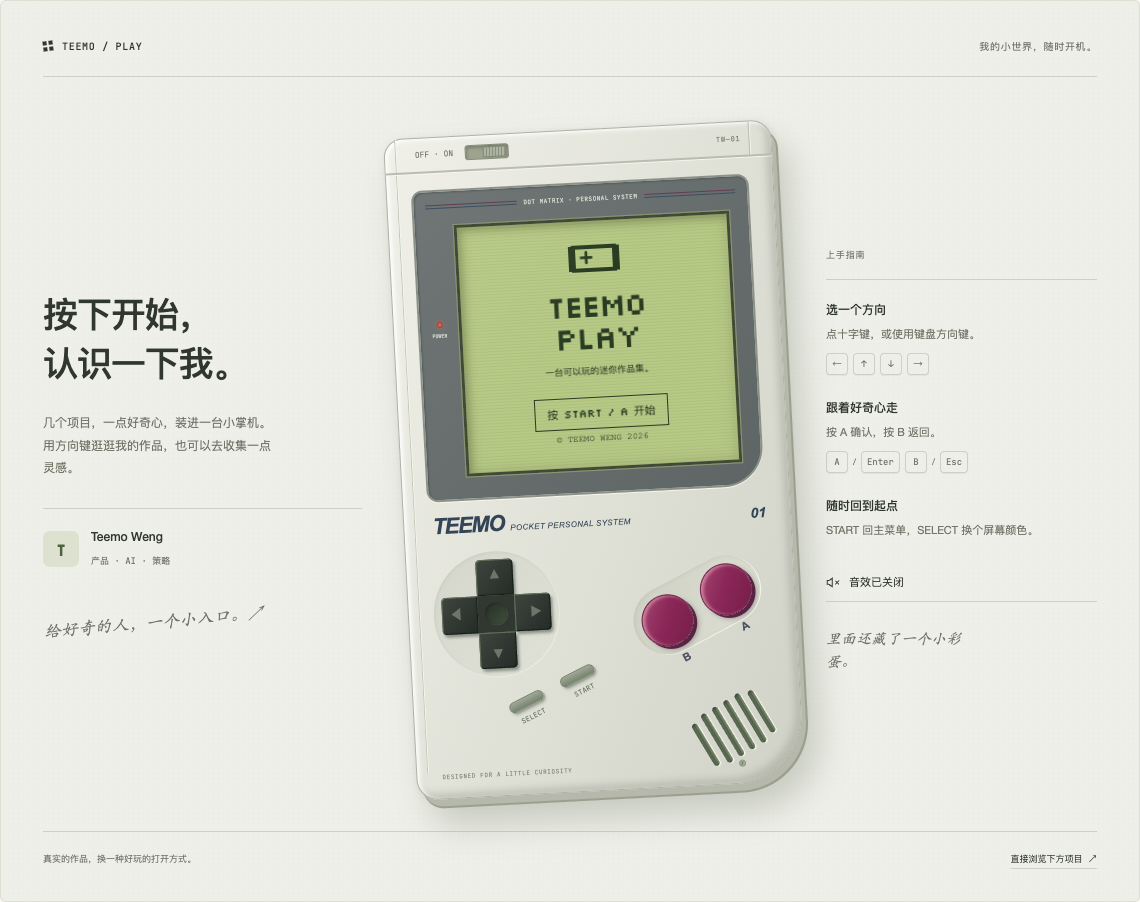
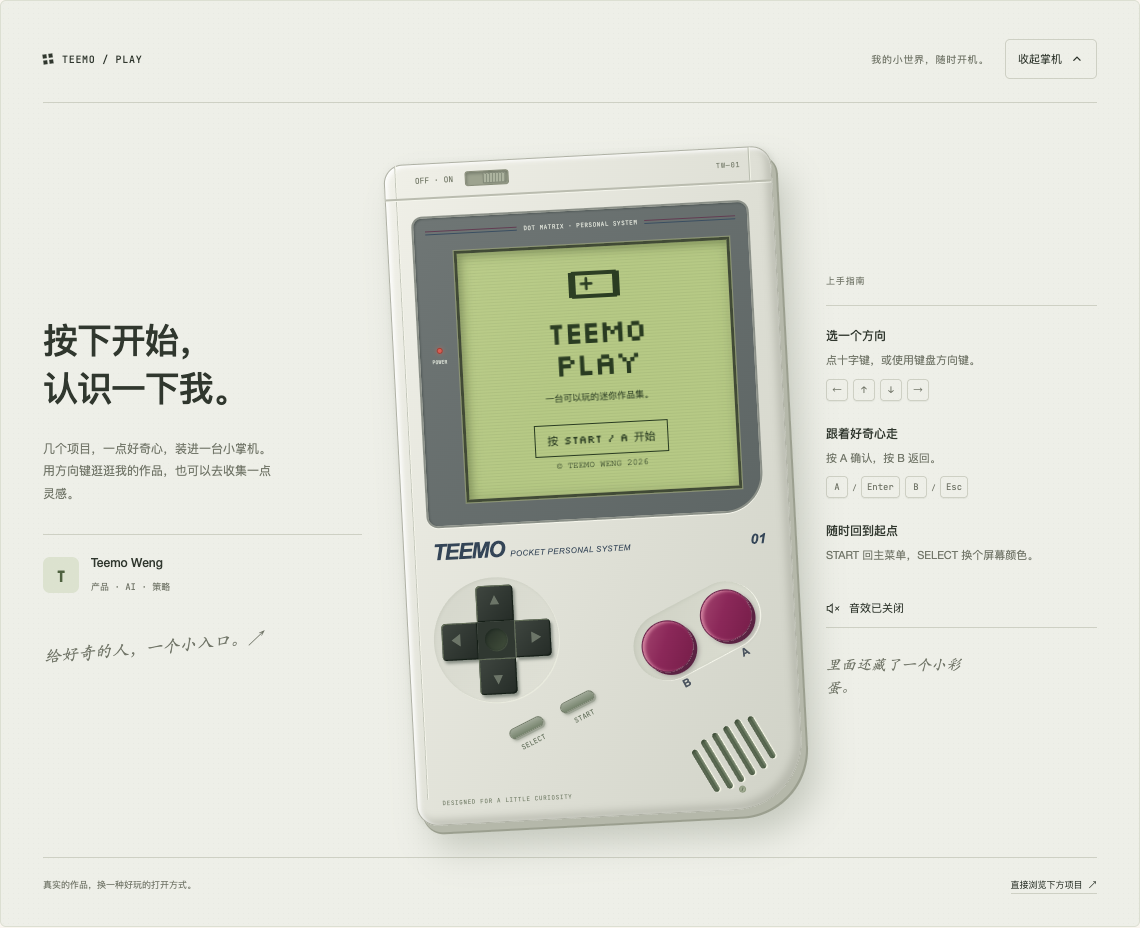
feat: move handheld below intro and add collapsible display

diff --git a/index.html b/index.html
@@ -138,11 +138,11 @@ canvas#particles {
 }
 .hero-content {
   position: relative; z-index: 1;
-  display: grid; grid-template-columns: 1fr 340px;
-  gap: 80px; align-items: center;
+  display: grid; grid-template-columns: minmax(0, 1fr) 300px;
+  gap: 48px; align-items: center;
   max-width: 1100px; width: 100%; padding: 0 40px;
 }
-.hero-text { }
+.hero-text { min-width: 0; }
 .hero-tag {
   display: inline-block; font-family: 'JetBrains Mono', monospace;
   font-size: 12px; color: var(--accent); letter-spacing: 0.12em;
@@ -171,7 +171,21 @@ canvas#particles {
   font-size: 15px; line-height: 1.75; color: var(--fg2);
   max-width: 520px; margin-bottom: 36px;
 }
-.hero-actions { display: flex; gap: 12px; flex-wrap: wrap; }
+.hero-actions { display: flex; gap: 8px; flex-wrap: nowrap; }
+.hero-actions > a, .hero-actions > button { padding-inline: 15px; font-size: 13px; white-space: nowrap; justify-content: center; }
+.hero-action-short { display: none; }
+@media (max-width: 960px) {
+  .hero-content { grid-template-columns: 1fr; gap: 40px; padding-inline: 20px; text-align: center; }
+  .hero-avatar { order: -1; }
+  .hero-actions { justify-content: center; }
+  .hero-desc { margin-inline: auto; }
+}
+@media (max-width: 480px) {
+  .hero-actions { gap: 6px; }
+  .hero-actions > a, .hero-actions > button { flex: 1; min-width: 0; min-height: 44px; padding: 10px 6px; font-size: 11px; }
+  .hero-action-full { display: none; }
+  .hero-action-short { display: inline; }
+}
 .btn-primary {
   padding: 12px 28px; background: var(--accent); color: #000;
   border: none; border-radius: 8px; font-weight: 600;
@@ -1022,6 +1036,14 @@ footer span { color: var(--accent); }
 @media(max-width:680px){[data-lang="zh"] .handheld-intro h2 span{display:block}[data-lang="zh"] .handheld-intro h2 span+span::before{content:none}.hh-menu-item{font-size:12px!important;min-height:27px}.handheld-screen .hh-menu{gap:1px}}
 @media(max-width:380px){.handheld-screen{height:250px}.hh-links{flex-wrap:nowrap;gap:4px}.hh-links .hh-link{font-size:9px!important;white-space:nowrap;margin-right:0;padding-inline:4px}}
 
+.handheld-stage-header > [data-i18n="game_edition"]{margin-left:auto}
+.handheld-toggle{display:inline-flex;align-items:center;justify-content:center;gap:8px;flex-shrink:0;min-height:40px;padding:8px 12px;border:1px solid var(--hh-rule);border-radius:5px;background:transparent;color:var(--hh-ink);font:11px 'JetBrains Mono','PingFang SC',monospace;cursor:pointer}
+.handheld-toggle[hidden],#handheld-content[hidden]{display:none}
+.handheld-toggle:hover{background:#8e997a18}
+.handheld-toggle:focus-visible{outline:2px solid var(--hh-ink);outline-offset:3px}
+.handheld-toggle[aria-expanded="false"] svg{transform:rotate(180deg)}
+.handheld-stage[data-collapsed="true"] .handheld-stage-header{padding-bottom:0;border-bottom:0}
+@media(max-width:680px){.handheld-stage-header > [data-i18n="game_edition"]{display:none}.handheld-toggle{font-size:10px;padding-inline:9px}}
 </style>
 </head>
 
@@ -1061,11 +1083,9 @@ footer span { color: var(--accent); }
         MSc student at Imperial College London, currently an AI Product Intern at Alibaba (space-leasing product line). Experienced in strategy consulting (BCG), internet product (Beike, POIZON), and startup building. Seeking product & strategy roles in China.
       </p>
       <div class="hero-actions">
-        <a class="btn-primary" href="#" onclick="downloadResume()" data-i18n="btn_resume">
-          ↓ Download Resume
-        </a>
-        <a class="btn-outline" href="#contact" data-i18n="btn_contact">Get in Touch</a>
-        <a class="btn-outline" href="#playground" data-i18n="game_hero_link">▶ Play a little</a>
+        <a class="btn-primary" href="#" onclick="downloadResume()" data-i18n-aria-label="btn_resume"><span class="hero-action-full" data-i18n="btn_resume">↓ Download Resume</span><span class="hero-action-short" data-i18n="btn_resume_short">↓ Resume</span></a>
+        <a class="btn-outline" href="#contact" data-i18n-aria-label="btn_contact"><span class="hero-action-full" data-i18n="btn_contact">Get in Touch</span><span class="hero-action-short" data-i18n="btn_contact_short">Contact</span></a>
+        <a class="btn-outline" href="#playground" data-i18n-aria-label="game_hero_link"><span class="hero-action-full" data-i18n="game_hero_link">▶ Play a little</span><span class="hero-action-short" data-i18n="game_hero_short">▶ Play</span></a>
         <button type="button" class="btn-outline" onclick="openGithubModal()" data-i18n="btn_github">⌥ GitHub</button>
       </div>
     </div>
@@ -1079,6 +1099,57 @@ footer span { color: var(--accent); }
   <div class="hero-scroll">
     <div class="scroll-line"></div>
     <span data-i18n="scroll_hint">scroll</span>
+  </div>
+</section>
+
+<!-- INTERACTIVE HANDHELD — isolated addition to the classic homepage -->
+<section id="playground">
+  <div class="handheld-stage">
+    <div class="handheld-stage-header">
+      <strong><span class="handheld-mark" aria-hidden="true"><i></i><i></i><i></i><i></i></span> TEEMO / PLAY</strong>
+      <span data-i18n="game_edition">A little world, ready to play.</span>
+      <button id="handheld-toggle" class="handheld-toggle" type="button" aria-expanded="true" aria-controls="handheld-content" hidden><span data-i18n="game_collapse">Collapse</span><svg viewBox="0 0 16 16" width="14" height="14" fill="none" stroke="currentColor" stroke-width="1.5" aria-hidden="true"><path d="m4 10 4-4 4 4"/></svg></button>
+    </div>
+    <div id="handheld-content">
+    <div class="handheld-layout">
+      <div class="handheld-intro">
+        <h2 data-i18n="game_heading"><span>Press start.</span><span>Meet Teemo.</span></h2>
+        <p data-i18n="game_intro">A few projects, a little curiosity, and a pocket-sized way to get to know me. Go on. Press a button.</p>
+        <div class="handheld-player-tag"><span class="handheld-player-symbol" aria-hidden="true">T</span><div><strong>Teemo Weng</strong><small data-i18n="game_player_role">Product · AI · Strategy</small></div></div>
+        <span class="handheld-pencil-note" data-i18n="game_margin_note">Made for the curious. ↗</span>
+      </div>
+      <div id="handheld-console" class="handheld-console" tabindex="0" role="group" data-powered="true" data-palette="green" data-i18n-aria-label="game_console_label" aria-label="Teemo interactive handheld. Use direction keys and A or B while focused.">
+        <div class="handheld-top-rail"><span>OFF · ON</span><button id="handheld-power" class="handheld-power" type="button" aria-pressed="true" aria-label="Power" data-i18n-aria-label="game_power_label"></button><small>TW—01</small></div>
+        <div class="handheld-bezel">
+          <div class="handheld-bezel-top" aria-hidden="true">DOT MATRIX · PERSONAL SYSTEM</div>
+          <div class="handheld-power-light" aria-hidden="true"><i></i>POWER</div>
+          <div id="handheld-screen" class="handheld-screen"><div id="handheld-display" class="handheld-display">
+            <div class="hh-title-screen"><span class="hh-title-mark" aria-hidden="true"></span><div class="hh-title-logo">TEEMO<span>PLAY</span></div><p data-i18n="game_title_sub">A pocket-sized introduction.</p><button type="button" class="hh-title-start" data-handheld-action="start" data-i18n="game_press_start">PRESS START</button><p>© TEEMO WENG 2026</p></div>
+          </div></div>
+        </div>
+        <div class="handheld-brand" aria-hidden="true"><strong>TEEMO</strong><span>POCKET PERSONAL SYSTEM</span><small>01</small></div>
+        <div class="handheld-controls">
+          <div class="handheld-dpad" aria-label="Direction controls">
+            <button type="button" data-handheld-action="up" data-i18n-aria-label="game_up" aria-label="Up">▲</button><button type="button" data-handheld-action="left" data-i18n-aria-label="game_left" aria-label="Left">◀</button><span class="handheld-dpad-center" aria-hidden="true"></span><button type="button" data-handheld-action="right" data-i18n-aria-label="game_right" aria-label="Right">▶</button><button type="button" data-handheld-action="down" data-i18n-aria-label="game_down" aria-label="Down">▼</button>
+          </div>
+          <div class="handheld-ab"><div class="handheld-ab-key"><button type="button" data-handheld-action="b" data-i18n-aria-label="game_b" aria-label="B — back"></button><span aria-hidden="true">B</span></div><div class="handheld-ab-key"><button type="button" data-handheld-action="a" data-i18n-aria-label="game_a" aria-label="A — select"></button><span aria-hidden="true">A</span></div></div>
+        </div>
+        <div class="handheld-bottom"><div class="handheld-system-controls"><div class="handheld-system-key"><button type="button" data-handheld-action="select" data-i18n-aria-label="game_select" aria-label="Select — switch screen color"></button><span aria-hidden="true">SELECT</span></div><div class="handheld-system-key"><button type="button" data-handheld-action="start" data-i18n-aria-label="game_start" aria-label="Start — main menu"></button><span aria-hidden="true">START</span></div></div><div class="handheld-speaker" aria-hidden="true"><i></i><i></i><i></i><i></i><i></i><i></i></div></div>
+        <div class="handheld-shell-label" aria-hidden="true">DESIGNED FOR A LITTLE CURIOSITY</div><i class="handheld-screw" aria-hidden="true"></i>
+      </div>
+      <aside class="handheld-guide">
+        <div class="handheld-guide-title" data-i18n="game_guide">A QUICK START</div>
+        <div class="handheld-guide-item"><strong data-i18n="game_direction_title">Find your way</strong><p data-i18n="game_direction_desc">Use the D-pad or arrow keys.</p><div class="handheld-guide-keys" aria-hidden="true"><kbd>←</kbd><kbd>↑</kbd><kbd>↓</kbd><kbd>→</kbd></div></div>
+        <div class="handheld-guide-item"><strong data-i18n="game_action_title">Follow your curiosity</strong><p data-i18n="game_action_desc">A to select. B to go back.</p><div class="handheld-guide-keys" aria-hidden="true"><kbd>A</kbd><span>/</span><kbd>Enter</kbd><kbd>B</kbd><span>/</span><kbd>Esc</kbd></div></div>
+        <div class="handheld-guide-item"><strong data-i18n="game_home_title">Make yourself at home</strong><p data-i18n="game_home_desc">START returns home. SELECT changes the screen color.</p></div>
+        <button type="button" id="handheld-sound" class="handheld-sound" aria-pressed="false" aria-label="Enable sound"><svg viewBox="0 0 24 24" fill="none" stroke="currentColor" stroke-width="1.6" aria-hidden="true"><path d="M10 5 5 9H2v6h3l5 4V5Z"/><path class="hh-sound-wave" d="M14 8q4 4 0 8m3-11q7 7 0 14"/><path class="hh-sound-mute" d="m15 9 6 6m0-6-6 6"/></svg><span data-i18n="game_sound_off">Sound off · turn on</span></button>
+        <p class="handheld-guide-note" data-i18n="game_quest_note">Psst… there’s a little side quest inside.</p>
+      </aside>
+    </div>
+    <div class="handheld-stage-footer"><span data-i18n="game_footer">Real projects. A playful way in.</span><a href="#projects" data-i18n="game_skip">Browse the projects below ↗</a></div>
+    </div>
+    <div id="handheld-announcement" class="handheld-sr-only" aria-live="polite" aria-atomic="true"></div>
+    <noscript><p class="handheld-nojs">掌机需要 JavaScript。你仍可在下方浏览完整项目。 / Enable JavaScript to play, or browse all projects below.</p><style>.handheld-nojs{display:block;padding-top:15px;font-size:12px}.project-card,.news-item,.tl-item,.edu-card,.skill-group,.reveal{opacity:1;transform:none}.handheld-console button,.handheld-sound{pointer-events:none}.handheld-nojs a{color:inherit}</style></noscript>
   </div>
 </section>
 
@@ -1194,51 +1265,6 @@ footer span { color: var(--accent); }
       <div class="news-date">2022.03</div>
       <div class="news-text" data-i18n="news_6">🚀 Led 0-to-1 launch of <strong>Hinbor</strong>, a North America campus group-ordering food platform.</div>
     </div>
-  </div>
-</section>
-
-<!-- INTERACTIVE HANDHELD — isolated addition to the classic homepage -->
-<section id="playground">
-  <div class="handheld-stage">
-    <div class="handheld-stage-header"><strong><span class="handheld-mark" aria-hidden="true"><i></i><i></i><i></i><i></i></span> TEEMO / PLAY</strong><span data-i18n="game_edition">A little world, ready to play.</span></div>
-    <div class="handheld-layout">
-      <div class="handheld-intro">
-        <h2 data-i18n="game_heading"><span>Press start.</span><span>Meet Teemo.</span></h2>
-        <p data-i18n="game_intro">A few projects, a little curiosity, and a pocket-sized way to get to know me. Go on. Press a button.</p>
-        <div class="handheld-player-tag"><span class="handheld-player-symbol" aria-hidden="true">T</span><div><strong>Teemo Weng</strong><small data-i18n="game_player_role">Product · AI · Strategy</small></div></div>
-        <span class="handheld-pencil-note" data-i18n="game_margin_note">Made for the curious. ↗</span>
-      </div>
-      <div id="handheld-console" class="handheld-console" tabindex="0" role="group" data-powered="true" data-palette="green" data-i18n-aria-label="game_console_label" aria-label="Teemo interactive handheld. Use direction keys and A or B while focused.">
-        <div class="handheld-top-rail"><span>OFF · ON</span><button id="handheld-power" class="handheld-power" type="button" aria-pressed="true" aria-label="Power" data-i18n-aria-label="game_power_label"></button><small>TW—01</small></div>
-        <div class="handheld-bezel">
-          <div class="handheld-bezel-top" aria-hidden="true">DOT MATRIX · PERSONAL SYSTEM</div>
-          <div class="handheld-power-light" aria-hidden="true"><i></i>POWER</div>
-          <div id="handheld-screen" class="handheld-screen"><div id="handheld-display" class="handheld-display">
-            <div class="hh-title-screen"><span class="hh-title-mark" aria-hidden="true"></span><div class="hh-title-logo">TEEMO<span>PLAY</span></div><p data-i18n="game_title_sub">A pocket-sized introduction.</p><button type="button" class="hh-title-start" data-handheld-action="start" data-i18n="game_press_start">PRESS START</button><p>© TEEMO WENG 2026</p></div>
-          </div></div>
-        </div>
-        <div class="handheld-brand" aria-hidden="true"><strong>TEEMO</strong><span>POCKET PERSONAL SYSTEM</span><small>01</small></div>
-        <div class="handheld-controls">
-          <div class="handheld-dpad" aria-label="Direction controls">
-            <button type="button" data-handheld-action="up" data-i18n-aria-label="game_up" aria-label="Up">▲</button><button type="button" data-handheld-action="left" data-i18n-aria-label="game_left" aria-label="Left">◀</button><span class="handheld-dpad-center" aria-hidden="true"></span><button type="button" data-handheld-action="right" data-i18n-aria-label="game_right" aria-label="Right">▶</button><button type="button" data-handheld-action="down" data-i18n-aria-label="game_down" aria-label="Down">▼</button>
-          </div>
-          <div class="handheld-ab"><div class="handheld-ab-key"><button type="button" data-handheld-action="b" data-i18n-aria-label="game_b" aria-label="B — back"></button><span aria-hidden="true">B</span></div><div class="handheld-ab-key"><button type="button" data-handheld-action="a" data-i18n-aria-label="game_a" aria-label="A — select"></button><span aria-hidden="true">A</span></div></div>
-        </div>
-        <div class="handheld-bottom"><div class="handheld-system-controls"><div class="handheld-system-key"><button type="button" data-handheld-action="select" data-i18n-aria-label="game_select" aria-label="Select — switch screen color"></button><span aria-hidden="true">SELECT</span></div><div class="handheld-system-key"><button type="button" data-handheld-action="start" data-i18n-aria-label="game_start" aria-label="Start — main menu"></button><span aria-hidden="true">START</span></div></div><div class="handheld-speaker" aria-hidden="true"><i></i><i></i><i></i><i></i><i></i><i></i></div></div>
-        <div class="handheld-shell-label" aria-hidden="true">DESIGNED FOR A LITTLE CURIOSITY</div><i class="handheld-screw" aria-hidden="true"></i>
-      </div>
-      <aside class="handheld-guide">
-        <div class="handheld-guide-title" data-i18n="game_guide">A QUICK START</div>
-        <div class="handheld-guide-item"><strong data-i18n="game_direction_title">Find your way</strong><p data-i18n="game_direction_desc">Use the D-pad or arrow keys.</p><div class="handheld-guide-keys" aria-hidden="true"><kbd>←</kbd><kbd>↑</kbd><kbd>↓</kbd><kbd>→</kbd></div></div>
-        <div class="handheld-guide-item"><strong data-i18n="game_action_title">Follow your curiosity</strong><p data-i18n="game_action_desc">A to select. B to go back.</p><div class="handheld-guide-keys" aria-hidden="true"><kbd>A</kbd><span>/</span><kbd>Enter</kbd><kbd>B</kbd><span>/</span><kbd>Esc</kbd></div></div>
-        <div class="handheld-guide-item"><strong data-i18n="game_home_title">Make yourself at home</strong><p data-i18n="game_home_desc">START returns home. SELECT changes the screen color.</p></div>
-        <button type="button" id="handheld-sound" class="handheld-sound" aria-pressed="false" aria-label="Enable sound"><svg viewBox="0 0 24 24" fill="none" stroke="currentColor" stroke-width="1.6" aria-hidden="true"><path d="M10 5 5 9H2v6h3l5 4V5Z"/><path class="hh-sound-wave" d="M14 8q4 4 0 8m3-11q7 7 0 14"/><path class="hh-sound-mute" d="m15 9 6 6m0-6-6 6"/></svg><span data-i18n="game_sound_off">Sound off · turn on</span></button>
-        <p class="handheld-guide-note" data-i18n="game_quest_note">Psst… there’s a little side quest inside.</p>
-      </aside>
-    </div>
-    <div class="handheld-stage-footer"><span data-i18n="game_footer">Real projects. A playful way in.</span><a href="#projects" data-i18n="game_skip">Browse the projects below ↗</a></div>
-    <div id="handheld-announcement" class="handheld-sr-only" aria-live="polite" aria-atomic="true"></div>
-    <noscript><p class="handheld-nojs">掌机需要 JavaScript。你仍可在下方浏览完整项目。 / Enable JavaScript to play, or browse all projects below.</p><style>.handheld-nojs{display:block;padding-top:15px;font-size:12px}.project-card,.news-item,.tl-item,.edu-card,.skill-group,.reveal{opacity:1;transform:none}.handheld-console button,.handheld-sound{pointer-events:none}.handheld-nojs a{color:inherit}</style></noscript>
   </div>
 </section>
 
@@ -1554,6 +1580,8 @@ footer span { color: var(--accent); }
 const i18n = {
   en: {
     game_hero_link: "▶ Play a little",
+    btn_resume_short: "↓ Resume", btn_contact_short: "Contact", game_hero_short: "▶ Play",
+    game_collapse: "Collapse", game_expand: "Expand",
     game_edition: "A little world, ready to play.",
     game_heading: "<span>Press start.</span><span>Meet Teemo.</span>",
     game_intro: "A few projects, a little curiosity, and a pocket-sized way to get to know me. Go on. Press a button.",
@@ -1680,6 +1708,8 @@ const i18n = {
   },
   zh: {
     game_hero_link: "▶ 玩一下掌机",
+    btn_resume_short: "↓ 简历", btn_contact_short: "联系我", game_hero_short: "▶ 掌机",
+    game_collapse: "收起掌机", game_expand: "展开掌机",
     game_edition: "我的小世界，随时开机。",
     game_heading: "<span>按下开始，</span><span>认识一下我。</span>",
     game_intro: "几个项目，一点好奇心，装进一台小掌机。用方向键逛逛我的作品，也可以去收集一点灵感。",
@@ -2612,6 +2642,26 @@ initReveal();
 }());
 
 window.TeemoHandheld.init();
+
+// Collapse the display without discarding its current page or game progress.
+const handheldToggle = document.getElementById('handheld-toggle');
+const handheldContent = document.getElementById('handheld-content');
+function setHandheldExpanded(expanded) {
+  if (!expanded) {
+    window.TeemoHandheld.pause();
+    if (handheldContent.contains(document.activeElement)) handheldToggle.focus({ preventScroll: true });
+  }
+  handheldContent.hidden = !expanded;
+  handheldToggle.setAttribute('aria-expanded', String(expanded));
+  handheldToggle.closest('.handheld-stage').dataset.collapsed = String(!expanded);
+  const label = handheldToggle.querySelector('span');
+  const key = expanded ? 'game_collapse' : 'game_expand';
+  label.dataset.i18n = key;
+  label.textContent = i18n[currentLang][key];
+}
+handheldToggle.hidden = false;
+handheldToggle.addEventListener('click', () => setHandheldExpanded(handheldToggle.getAttribute('aria-expanded') !== 'true'));
+document.querySelector('.hero-actions a[href="#playground"]').addEventListener('click', () => setHandheldExpanded(true));
 </script>
 </body>
 </html>

diff --git a/docs/handheld-review.md b/docs/handheld-review.md
@@ -1,6 +1,6 @@
 # TEEMO / PLAY — 复古掌机审阅稿
 
-在现有经典主页的「最新动态」与「开源作品」之间加入一台可操作的掌机，首屏增加「玩一下掌机」入口。独立分支 `codex/retro-handheld-20260907` 从当前 main 开始，不包含此前档案袋版改动。
+在现有经典主页的自我介绍后，立即展示可操作的掌机，作为第一个内容板块。首屏的简历、联系、掌机和 GitHub 四个入口保持同一行，小屏使用简短标签。独立分支 `codex/retro-handheld-20260907` 从当前 main 开始，不包含此前档案袋版改动。
 
 预览：https://teemo-pocket-review.vercel.app/?lang=zh#playground
 
@@ -14,6 +14,7 @@
 
 ## 操作
 
+- 掌机默认展开，标题栏可收起为一行；再次展开保留页面与游戏进度。收起时暂停迷宫。首屏「玩一下掌机」入口会自动展开。
 - 按 Start 或屏幕「开始」进入；方向键选择，A 确认，B 返回。
 - 鼠标和手机可以直接点屏幕菜单及实体按键。
 - 掌机获得焦点时，键盘方向键和 A/B、Enter/Escape 可操作；Tab 正常离开。
@@ -25,7 +26,7 @@
 
 保持仓库单 HTML 结构：CSS 和控制器留在根目录 `index.html`，无新运行时依赖或构建步骤。像素字体 Silkscreen 本地托管，授权文件一同保留于 `uploads/handheld/`。无 JavaScript 时仍提供文字和项目入口。
 
-`tests/test_handheld.mjs` 覆盖实际按钮通关、碰墙、菜单、项目翻页、双语、真实链接、触控、键盘焦点、电源中断、音效启停、暂停与恢复、reduced-motion、无 JS，以及 320/390/900/1440px 双语屏幕边界。后台隐藏的事件处理使用模拟 `visibilitychange` 验证，不代表真实操作系统后台生命周期测试。
+`tests/test_handheld.mjs` 覆盖板块顺序、按钮同排、键盘展开与收起、折叠后进度保留、实际按钮通关、碰墙、菜单、项目翻页、双语、真实链接、触控、键盘焦点、电源中断、音效启停、暂停与恢复、reduced-motion、无 JS，以及 320/390/900/1440px 双语屏幕边界。后台隐藏的事件处理使用模拟 `visibilitychange` 验证，不代表真实操作系统后台生命周期测试。
 
 原能力卡回归仍检查独立翻转、两端布局、语言切换与锚点。原 Python 测试一并保留。
 
